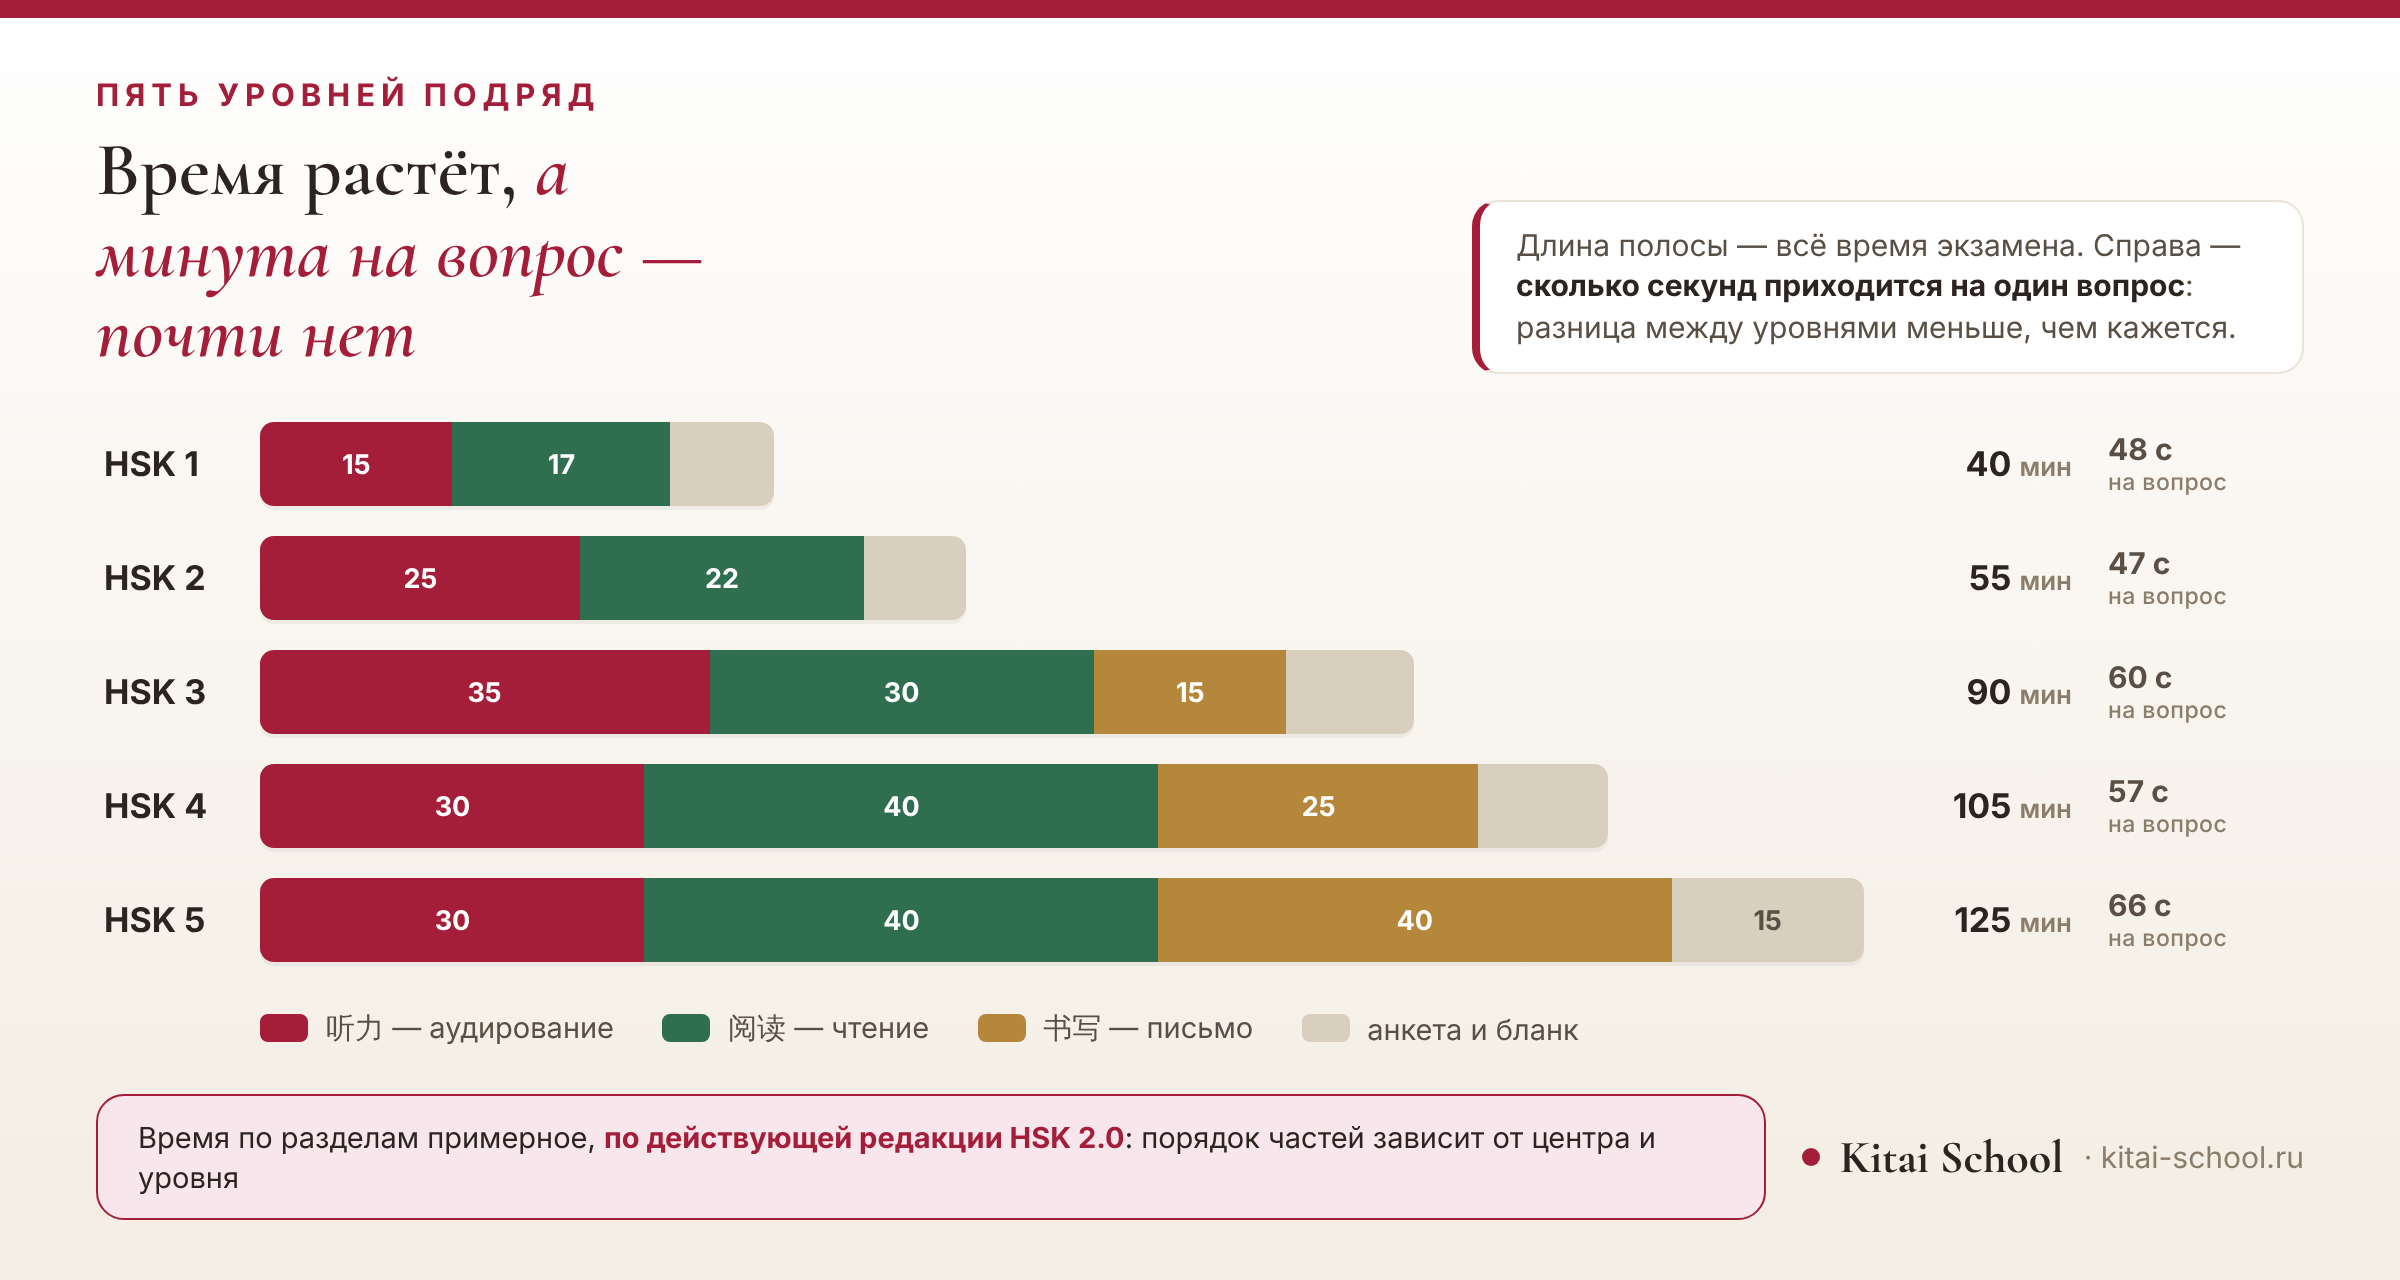
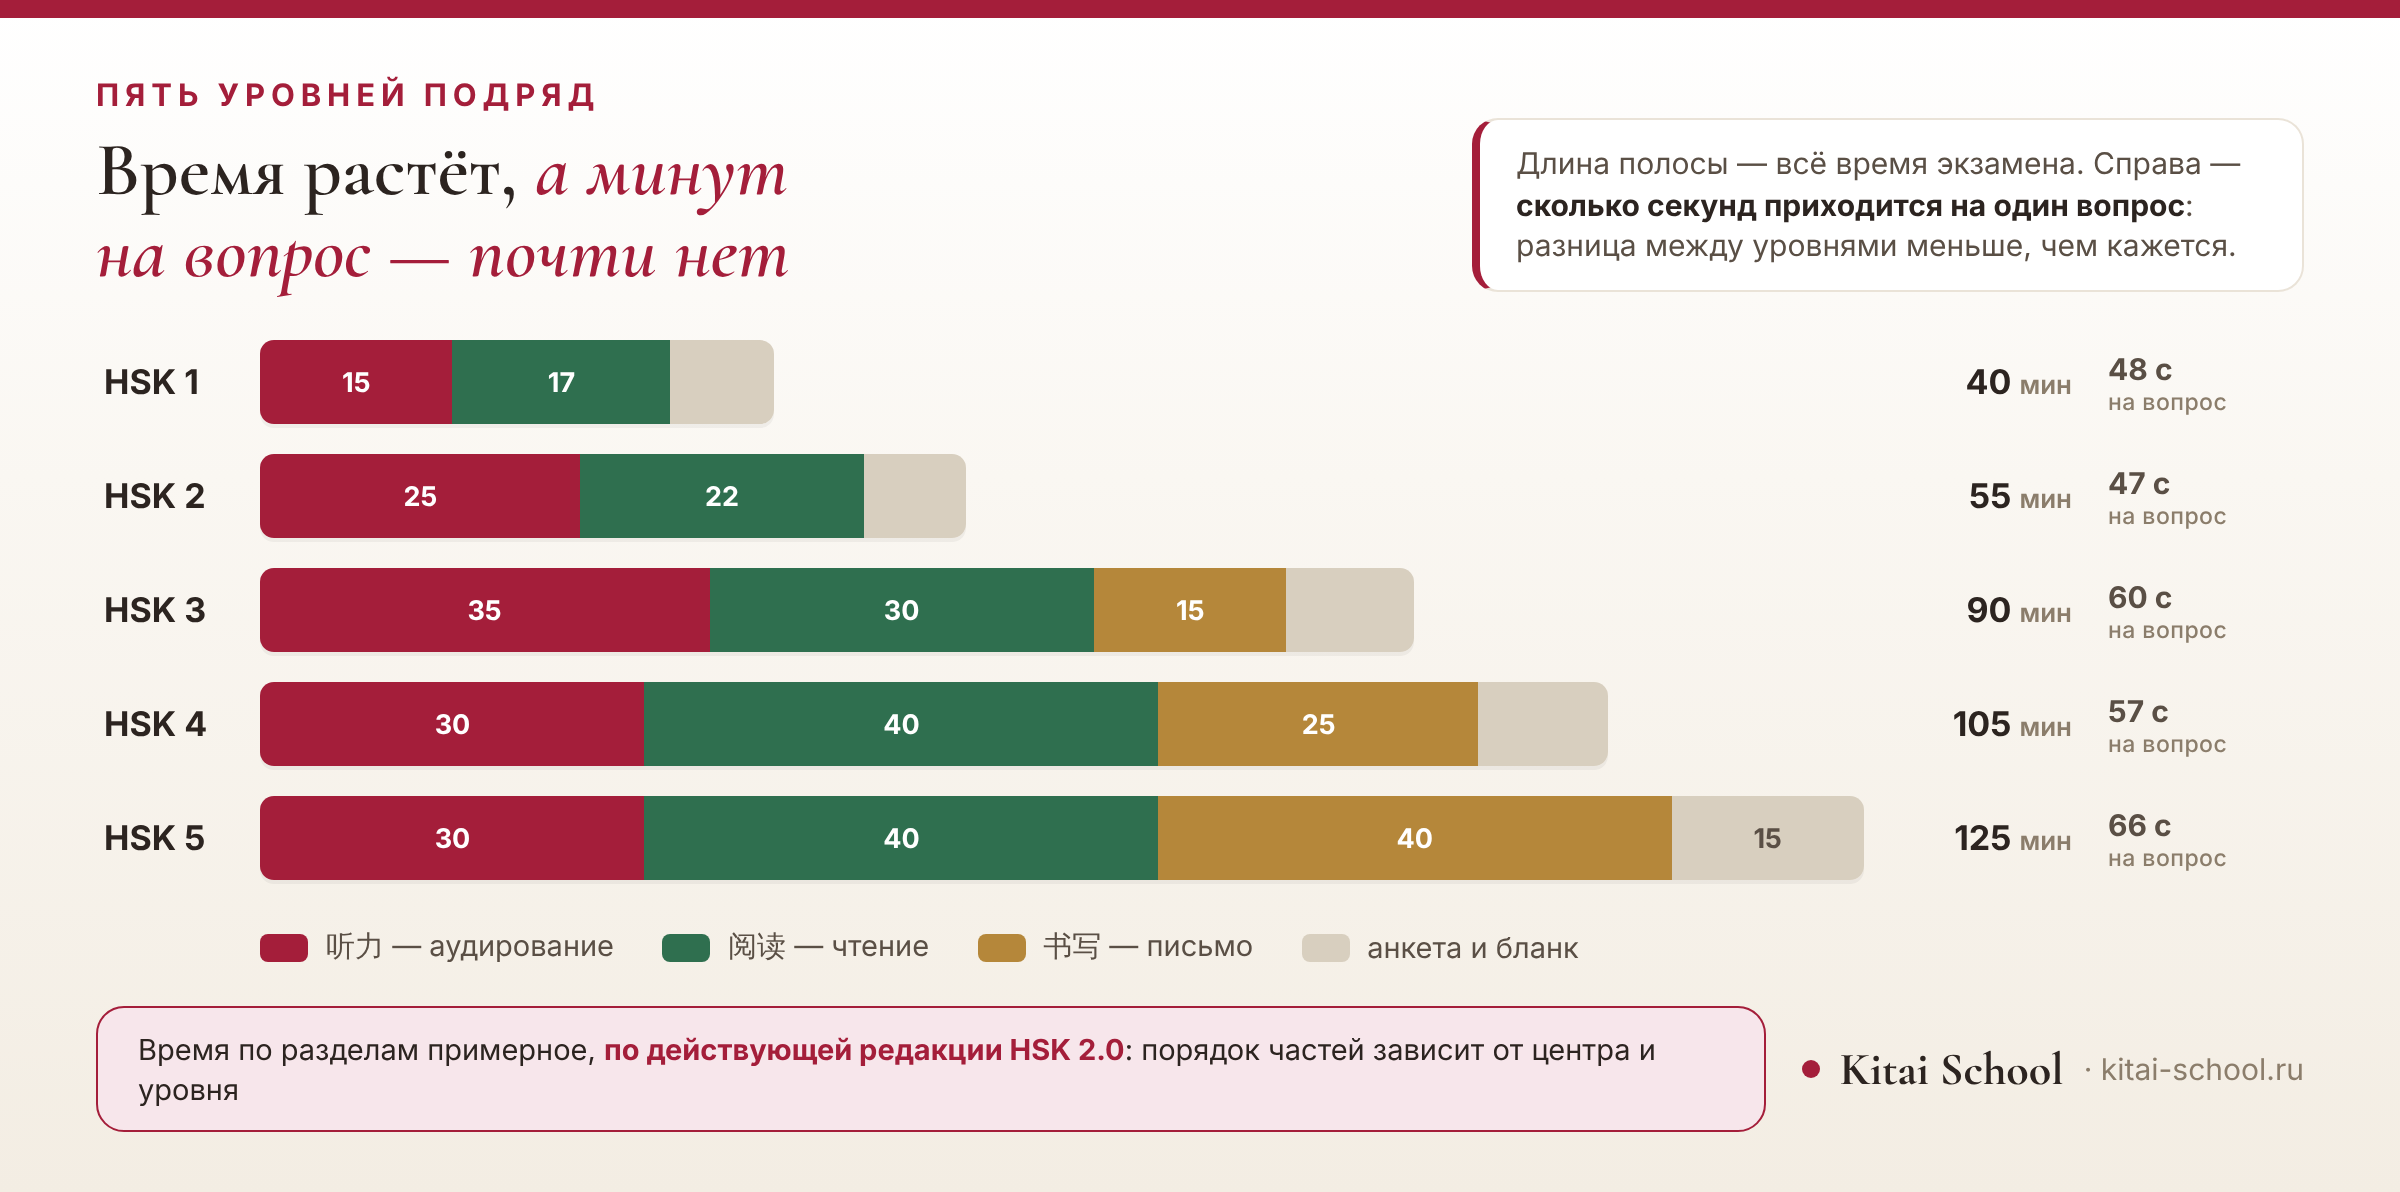
Правка заголовка на инфографике: «а минут на вопрос — почти нет»
Прежняя формулировка «а минута» не согласовывалась со сказуемым.
Заголовок стал короче на строку, поэтому высота кадра уменьшена
с 640 до 596; размеры картинки в статье обновлены.

Claude-Session: https://claude.ai/code/session_017dS7Wuw6MNB5fnZSr6hVh2

diff --git a/content/blog/skolko-dlitsya-kzamen-hsk.TILDA.html b/content/blog/skolko-dlitsya-kzamen-hsk.TILDA.html
@@ -248,7 +248,7 @@
 
 <p><b>Разделы устроены по-разному.</b> В аудировании темп задаёт запись: она идёт сама, пауз по вашему желанию в ней нет, и ускорить или замедлить её вы не можете. Сколько отведено, столько и будет.</p>
 
-<figure class="ks-fig"><img src="assets/dlit-info.png" alt="Пять составных полос по уровням HSK: доли аудирования, чтения, письма и работы с бланком, общее время и секунды на один вопрос" width="1200" height="640"><figcaption>Длина полосы — всё время экзамена, внутри доли разделов. Справа — сколько секунд приходится на один вопрос.</figcaption></figure>
+<figure class="ks-fig"><img src="assets/dlit-info.png" alt="Пять составных полос по уровням HSK: доли аудирования, чтения, письма и работы с бланком, общее время и секунды на один вопрос" width="1200" height="596"><figcaption>Длина полосы — всё время экзамена, внутри доли разделов. Справа — сколько секунд приходится на один вопрос.</figcaption></figure>
 
 <p>Посмотрите на красную часть полос. <b>На первых двух уровнях она занимает около половины всего экзамена</b>, и это время полностью продиктовано записью. Выходит, половиной экзамена вы не распоряжаетесь вовсе.</p>
 

diff --git a/content/blog/skolko-dlitsya-kzamen-hsk.html b/content/blog/skolko-dlitsya-kzamen-hsk.html
@@ -274,7 +274,7 @@
 
 <p><b>Разделы устроены по-разному.</b> В аудировании темп задаёт запись: она идёт сама, пауз по вашему желанию в ней нет, и ускорить или замедлить её вы не можете. Сколько отведено, столько и будет.</p>
 
-<figure class="ks-fig"><img src="assets/dlit-info.png" alt="Пять составных полос по уровням HSK: доли аудирования, чтения, письма и работы с бланком, общее время и секунды на один вопрос" width="1200" height="640"><figcaption>Длина полосы — всё время экзамена, внутри доли разделов. Справа — сколько секунд приходится на один вопрос.</figcaption></figure>
+<figure class="ks-fig"><img src="assets/dlit-info.png" alt="Пять составных полос по уровням HSK: доли аудирования, чтения, письма и работы с бланком, общее время и секунды на один вопрос" width="1200" height="596"><figcaption>Длина полосы — всё время экзамена, внутри доли разделов. Справа — сколько секунд приходится на один вопрос.</figcaption></figure>
 
 <p>Посмотрите на красную часть полос. <b>На первых двух уровнях она занимает около половины всего экзамена</b>, и это время полностью продиктовано записью. Выходит, половиной экзамена вы не распоряжаетесь вовсе.</p>
 

diff --git a/content/build-dlit.py b/content/build-dlit.py
@@ -273,7 +273,7 @@ LEVEL_ROWS
 
 <p><b>Разделы устроены по-разному.</b> В аудировании темп задаёт запись: она идёт сама, пауз по вашему желанию в ней нет, и ускорить или замедлить её вы не можете. Сколько отведено, столько и будет.</p>
 
-<figure class="ks-fig"><img src="FIG_SRC" alt="FIG_ALT" width="1200" height="640"><figcaption>Длина полосы — всё время экзамена, внутри доли разделов. Справа — сколько секунд приходится на один вопрос.</figcaption></figure>
+<figure class="ks-fig"><img src="FIG_SRC" alt="FIG_ALT" width="1200" height="596"><figcaption>Длина полосы — всё время экзамена, внутри доли разделов. Справа — сколько секунд приходится на один вопрос.</figcaption></figure>
 
 <p>Посмотрите на красную часть полос. <b>На первых двух уровнях она занимает около половины всего экзамена</b>, и это время полностью продиктовано записью. Выходит, половиной экзамена вы не распоряжаетесь вовсе.</p>
 

diff --git a/content/img-dlit.py b/content/img-dlit.py
@@ -178,7 +178,7 @@ h2 i{font-style:italic;color:var(--brick)}
   <div class="top">
     <div>
       <div class="eyebrow">Пять уровней подряд</div>
-      <h2>Время растёт, <i>а минута на вопрос — почти нет</i></h2>
+      <h2>Время растёт, <i>а минут на вопрос — почти нет</i></h2>
     </div>
     <div class="hint">Длина полосы — всё время экзамена. Справа — <b>сколько секунд приходится на один вопрос</b>: разница между уровнями меньше, чем кажется.</div>
   </div>
@@ -199,7 +199,7 @@ h2 i{font-style:italic;color:var(--brick)}
     <div class="brand"><span class="dot2"></span><b>Kitai School</b><span>&middot; kitai-school.ru</span></div>
   </div>
 </div>
-</body></html>""" % dict(fonts=FONTS, vars=VARS, h=640, bars=bars)
+</body></html>""" % dict(fonts=FONTS, vars=VARS, h=596, bars=bars)
 
 open(S + "dlit-info.html", "w", encoding="utf-8").write(info)
 
